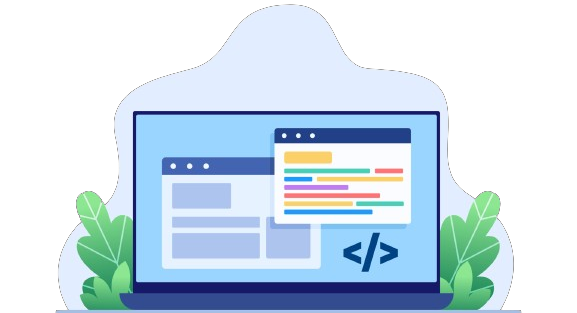
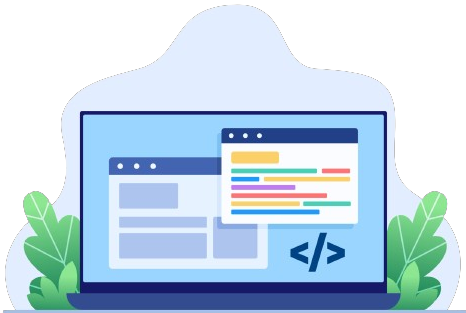
fix mobile issue

diff --git a/src/scss/abstracts/_media-query.scss b/src/scss/abstracts/_media-query.scss
@@ -1,8 +1,15 @@
 @media screen and (max-width: 953px) {
   .section {
-    height: clamp(1100px, 100vh, 100vh) !important;
+    height: clamp(1100px, 90vh, 100vh);
+    width: 100vw;
   }
   .section-bottom {
     height: 10vh !important;
+  }
+}
+
+@media screen and (max-width: 500px) {
+  .hero-header-text {
+    font-size: clamp(3rem, 70vw, 4rem);
   }
 }

diff --git a/src/scss/Main.scss b/src/scss/Main.scss
@@ -1,6 +1,6 @@
-@use "abstracts";
 @use "layout";
 @use "themes";
 @use "pages";
 @use "components";
+@use "abstracts";
 @import url("https://fonts.googleapis.com/css2?family=Playfair+Display:ital,wght@0,400;0,700;1,400;1,700&display=swap");

diff --git a/src/scss/pages/_landing.scss b/src/scss/pages/_landing.scss
@@ -47,6 +47,6 @@ html {
   padding: 0%;
 }
 
-.html {
-  overflow-x: hidden;
+body {
+  min-width: fit-content;
 }
